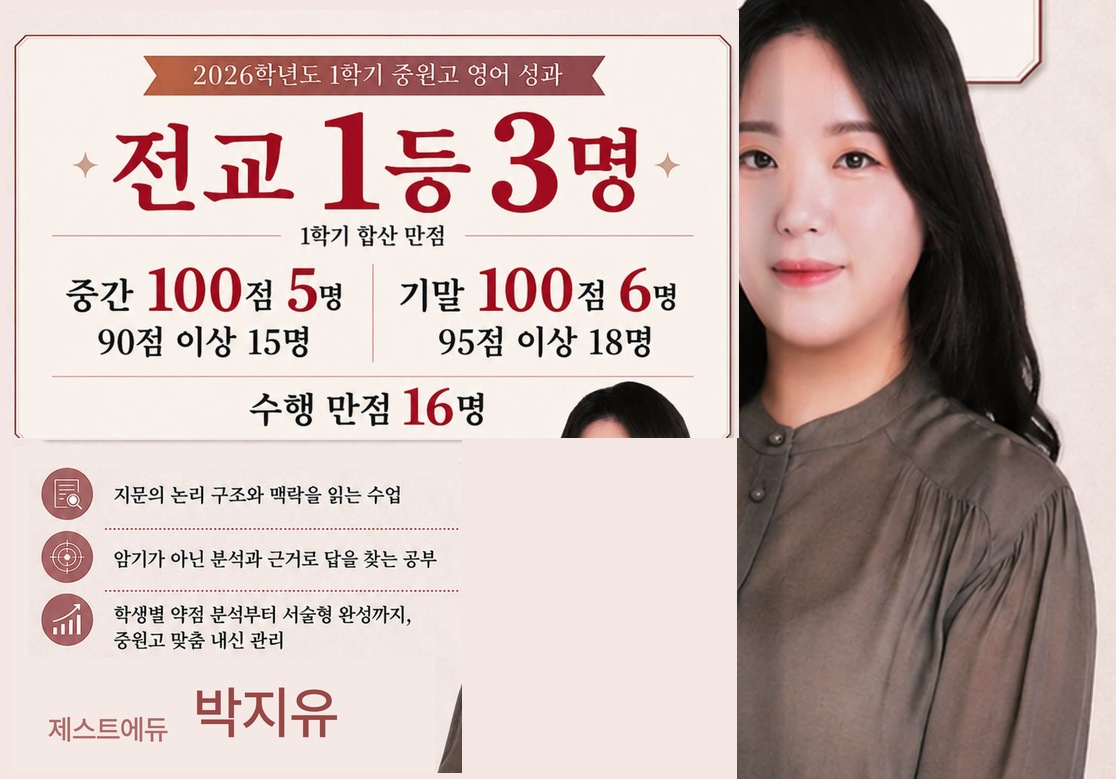
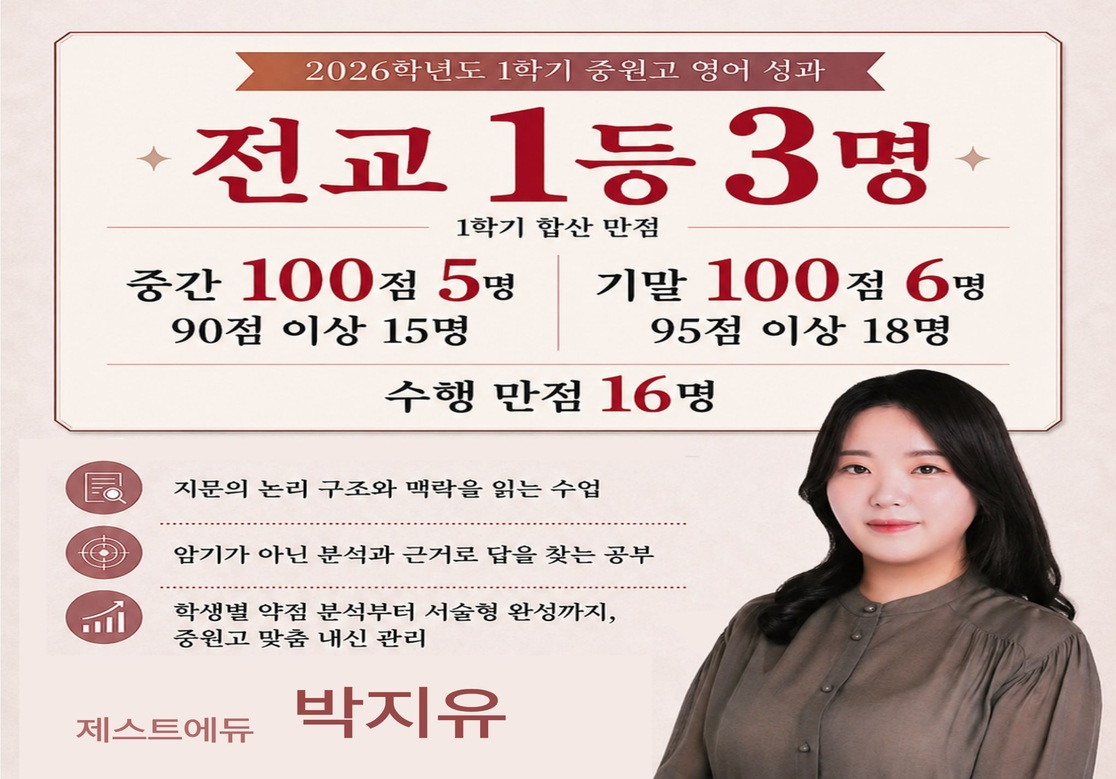
중원고 상세 마지막 문단을 원문으로 채우고, 메인 배너는 원본 사진을 가로 비율로만 늘린다.

diff --git a/jungwon.html b/jungwon.html
@@ -160,8 +160,8 @@
 
       <div class="closing">
         <p>중원고 영어 시험은 겉으로 보기에는 어렵지 않아 보일 수 있습니다. 하지만 <span class="mark">높은 점수를 받는 것과 원하는 등급을 받는 것은 다른 문제</span>입니다.</p>
-        <p>학교의 출제 방향을 정확하게 알고, 각 학생이 점수를 잃는 이유를 찾아 하나씩 해결해야 합니다.</p>
-        <p>한 명 한 명의 가능성을 놓치지 않고, 모든 아이들이 자신의 잠재력을 최대한 발휘할 수 있도록.</p>
+        <p>학교의 출제 방향을 정확하게 알고, 변형에 대응할 수 있어야 하며, 무엇보다 각 학생이 점수를 잃는 이유를 찾아 하나씩 해결해야 합니다.</p>
+        <p>한 명 한 명의 가능성을 놓치지 않고, 모든 아이들이 자신의 잠재력을 최대한 발휘할 수 있도록 2학기에도 진심을 다해 함께하겠습니다.</p>
       </div>
     </article>
 

diff --git a/index.html b/index.html
@@ -406,7 +406,7 @@
           </figure>
           <figure class="slide" aria-label="3 / 7">
             <a class="slide-link" href="jungwon.html" aria-label="중원고 1학기 영어 성과 상세 보기">
-              <img src="images/jungwon-hero-wide.jpg?v=1" alt="2026학년도 1학기 중원고 영어 성과 — 전교 1등 3명, 제스트에듀 박지유T" width="1116" height="779" />
+              <img src="images/jungwon-hero-wide.jpg?v=2" alt="2026학년도 1학기 중원고 영어 성과 — 전교 1등 3명, 제스트에듀 박지유T" width="1116" height="779" />
             </a>
           </figure>
           <figure class="slide" aria-label="4 / 7">
